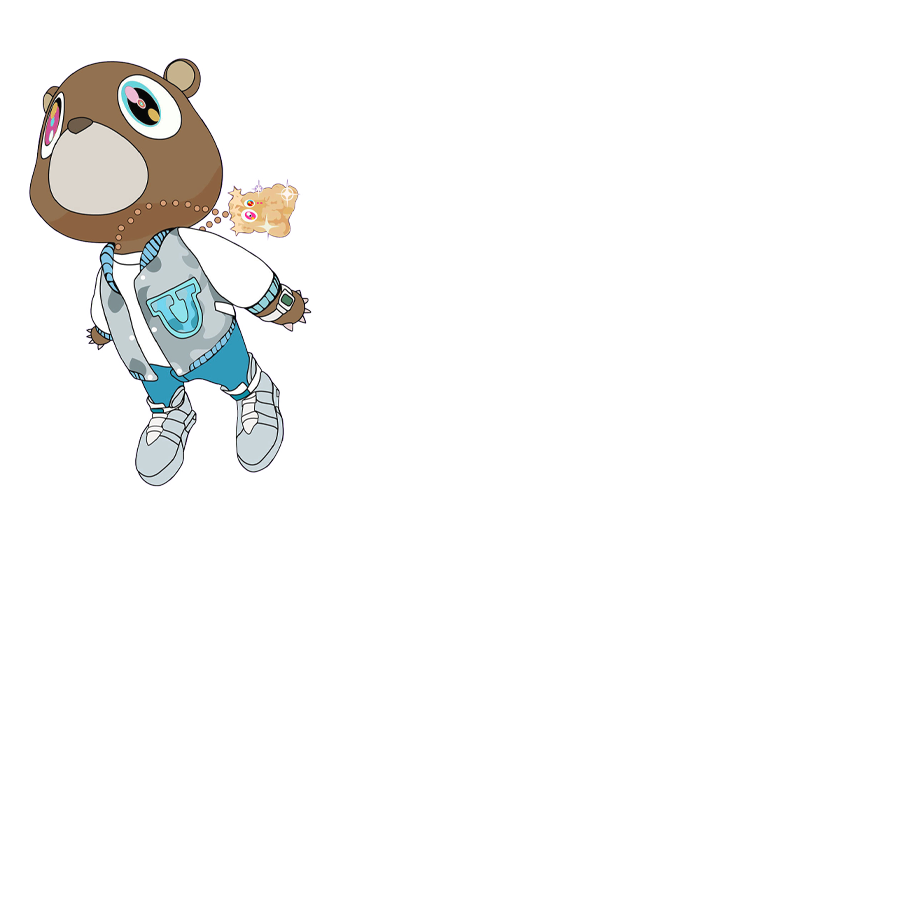
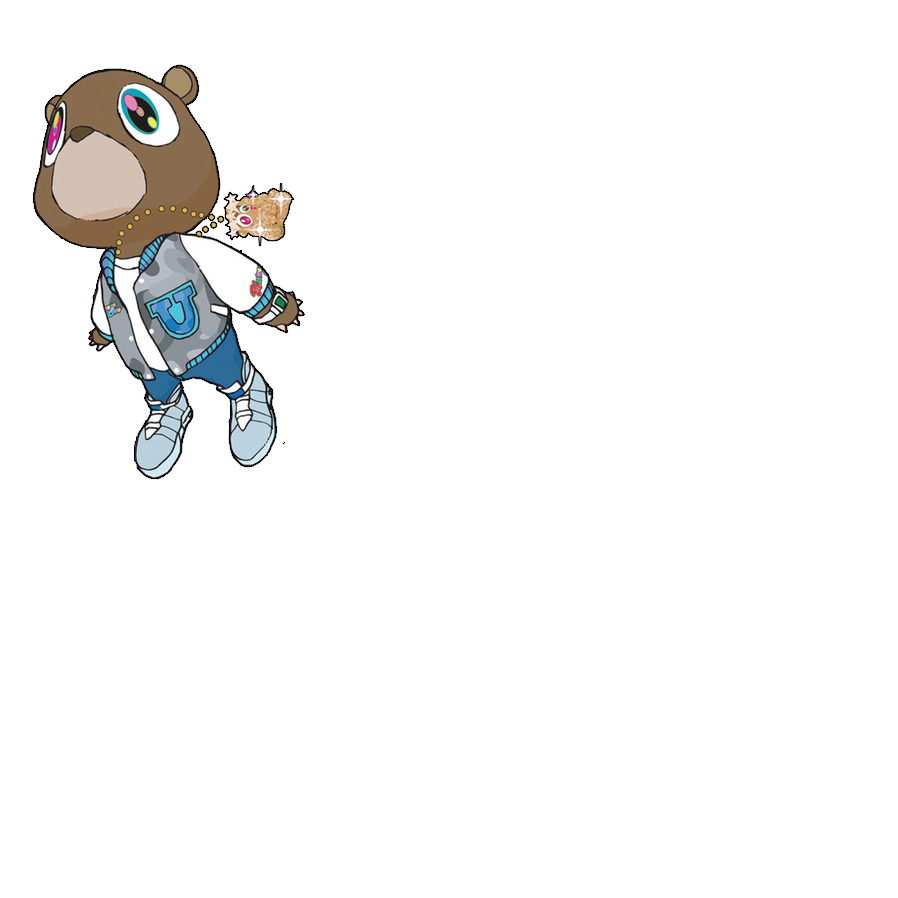
added homepage

Changed region(s): [[0.0312, 0.0624, 0.343, 0.5612]]

diff --git a/pages/graduation.html b/pages/graduation.html
@@ -1,0 +1,31 @@
+<!DOCTYPE html>
+<html lang="en">
+
+<head>
+    <meta charset="UTF-8">
+    <meta name="viewport" content="width=device-width, initial-scale=1.0">
+    <link rel="stylesheet" href="/graduation/style.css">
+    <title>Parallax</title>
+</head>
+
+<body>
+    <div class="container">
+        <ul id="scene" data-scalar-x="10" data-scalar-y="6">
+            <!-- <li data-depth="0.10"><img src="/graduation/images/background.png" alt=""></li> -->
+            <li data-depth="0.20"><img src="/graduation/images/hats-1.png" alt=""></li>
+            <li data-depth="0.40"><img src="/graduation/images/hats-2.png" alt=""></li>
+            <li data-depth="0.65"><img src="/graduation/images/launcher-top.png" alt=""></li>
+            <li data-depth="0.70" class="custom-1"><img src="/graduation/images/launcher.png" alt=""></li>
+            <li data-depth="0.90"><img src="/graduation/images/hats-3.png" alt=""></li>
+            <li data-depth="2.00" data-invert-x><img src="/graduation/images/bear.png" alt=""></li>
+        </ul>
+    </div>
+
+    <script src="https://cdnjs.cloudflare.com/ajax/libs/parallax/3.1.0/parallax.min.js"></script>
+    <script>
+        var scene = document.getElementById('scene');
+        var parallaxInstance = new Parallax(scene);
+    </script>
+</body>
+
+</html>

diff --git a/pages/mbdtf.html b/pages/mbdtf.html
@@ -4,16 +4,16 @@
     <meta charset="UTF-8">
     <meta name="viewport" content="width=device-width, initial-scale=1.0">
     <title>MBDTF</title>
-    <link rel="stylesheet" href="style.css">
+    <link rel="stylesheet" href="/mbdtf/style.css">
 </head>
 <body>
     <div class="container">
         <ul id="scene" data-scalar-x="10" data-scalar-y="6">
-            <li data-depth="0.40"><img src="images/clouds.gif" class="custom-1" alt=""></li>
-            <li data-depth="0.70"><img src="images/mountains.png" alt=""></li>
-            <!-- <li data-depth="0.50"><img src="images/grass.png" alt=""></li> -->
-            <li data-depth="1.00"><img src="images/writing.png" alt=""></li>
-            ><li data-depth="1.20"><img src="images/background.png" class="custom-2" alt=""></li>
+            <li data-depth="0.40"><img src="/mbdtf/images/clouds.gif" class="custom-1" alt=""></li>
+            <li data-depth="0.70"><img src="/mbdtf/images/mountains.png" alt=""></li>
+            <!-- <li data-depth="0.50"><img src="/mbdtf/images/grass.png" alt=""></li> -->
+            <li data-depth="1.00"><img src="/mbdtf/images/writing.png" alt=""></li>
+            ><li data-depth="1.20"><img src="/mbdtf/images/background.png" class="custom-2" alt=""></li>
         </ul>
     </div>
 

diff --git a/style.css b/style.css
@@ -1,0 +1,44 @@
+@import url('https://fonts.googleapis.com/css2?family=Inter:ital,opsz,wght@0,14..32,100..900;1,14..32,100..900&display=swap');
+
+*{
+    margin: 0;
+    padding: 0;
+    box-sizing: border-box;
+    font-family: "Inter", serif;
+}
+
+body{
+    width: 100vw;
+    height: 100vh;
+    display: flex;
+    justify-content: center;
+    align-items: center;
+}
+
+.container{
+    display: flex;
+    gap: 35px;
+}
+
+.card{
+    width: 300px;
+    height: 300px;
+    box-shadow: 2px 2px 10px 0px rgba(0,0,0,.5);
+    background-size: cover;
+    display: flex;
+    align-items: flex-end;
+    text-decoration: none;
+    transition: .5s ease;
+}
+
+.card:hover{
+    transform: rotate(5deg) scale(1.1);
+}
+
+.card h2{
+    color: black;
+    background-color: white;
+    padding: 20px;
+    width: 100%;
+    box-shadow: 0 -5px 10px 0 rgba(0,0,0,.3);
+}

diff --git a/index.html b/index.html
@@ -1,0 +1,19 @@
+<!DOCTYPE html>
+<html lang="en">
+<head>
+    <meta charset="UTF-8">
+    <meta name="viewport" content="width=device-width, initial-scale=1.0">
+    <title>Parallax Wallpapers</title>
+    <link rel="stylesheet" href="style.css">
+</head>
+<body>
+    <div class="container">
+        <a href="pages/graduation.html" class="card" style="background-image: url(https://is1-ssl.mzstatic.com/image/thumb/Music116/v4/2f/db/2c/2fdb2c9d-171c-c6dc-57ee-4bae2b4bb11a/07UMGIM12671.rgb.jpg/600x600bf-60.jpg);">
+            <h2>Graduation</h2>
+        </a>
+        <a href="pages/mbdtf.html" class="card" style="background-image: url(https://i.scdn.co/image/ab67616d0000b273d9194aa18fa4c9362b47464f);">
+            <h2>MBDTF</h2>
+        </a>
+    </div>
+</body>
+</html>
